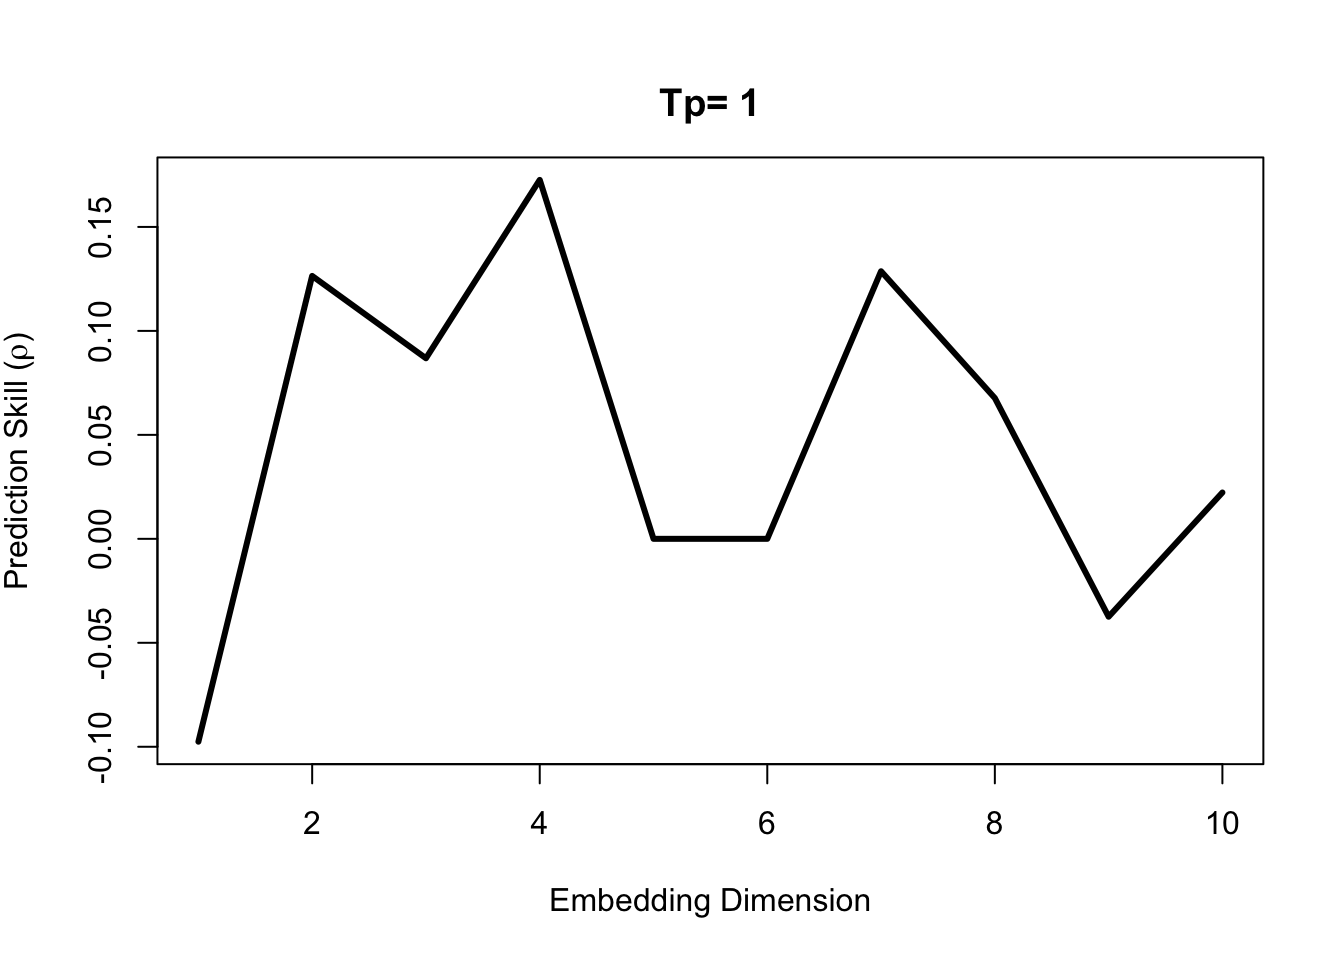
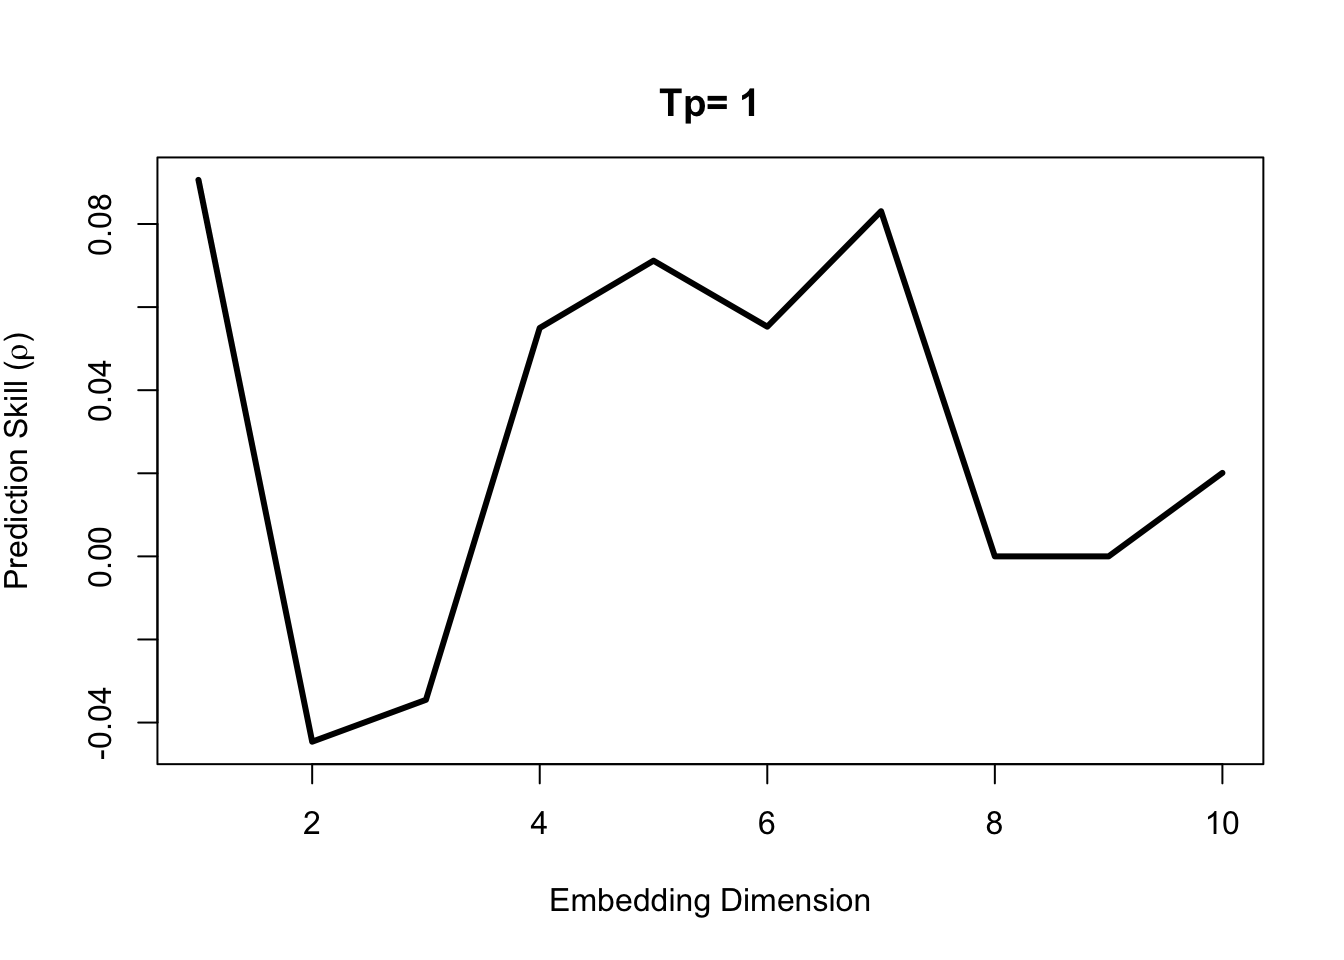
get out size for embedding dimension right

diff --git a/ccm_ovb.html b/ccm_ovb.html
@@ -7,7 +7,7 @@
 <meta name="viewport" content="width=device-width, initial-scale=1.0, user-scalable=yes">
 
 
-<title>CCM and Confounding</title>
+<title>EDM and Confounding</title>
 <style>
 code{white-space: pre-wrap;}
 span.smallcaps{font-variant: small-caps;}
@@ -79,7 +79,7 @@ pre > code.sourceCode > span > a:first-child::before { text-decoration: underlin
 
 <header id="title-block-header" class="quarto-title-block default">
 <div class="quarto-title">
-<h1 class="title">CCM and Confounding</h1>
+<h1 class="title">EDM and Confounding</h1>
 </div>
 
 
@@ -235,8 +235,8 @@ $RMSE
 <p>And we don’t get a relationship. Maybe a different embedding dimension?</p>
 <div class="cell">
 <div class="sourceCode cell-code" id="cb12"><pre class="sourceCode r code-with-copy"><code class="sourceCode r"><span id="cb12-1"><a href="#cb12-1" aria-hidden="true" tabindex="-1"></a>rho_e <span class="ot">&lt;-</span> <span class="fu">EmbedDimension</span>(<span class="at">dataFrame =</span> dat_conf, </span>
-<span id="cb12-2"><a href="#cb12-2" aria-hidden="true" tabindex="-1"></a>                        <span class="at">lib =</span> <span class="st">"1 900"</span>, </span>
-<span id="cb12-3"><a href="#cb12-3" aria-hidden="true" tabindex="-1"></a>                        <span class="at">pred =</span> <span class="st">"901 1000"</span>, </span>
+<span id="cb12-2"><a href="#cb12-2" aria-hidden="true" tabindex="-1"></a>                        <span class="at">lib =</span> <span class="st">"1 700"</span>, </span>
+<span id="cb12-3"><a href="#cb12-3" aria-hidden="true" tabindex="-1"></a>                        <span class="at">pred =</span> <span class="st">"701 1000"</span>, </span>
 <span id="cb12-4"><a href="#cb12-4" aria-hidden="true" tabindex="-1"></a>                        <span class="at">columns =</span> <span class="st">"x2"</span>, </span>
 <span id="cb12-5"><a href="#cb12-5" aria-hidden="true" tabindex="-1"></a>                        <span class="at">target =</span> <span class="st">"y"</span>)</span></code><button title="Copy to Clipboard" class="code-copy-button"><i class="bi"></i></button></pre></div>
 <div class="cell-output-display">
